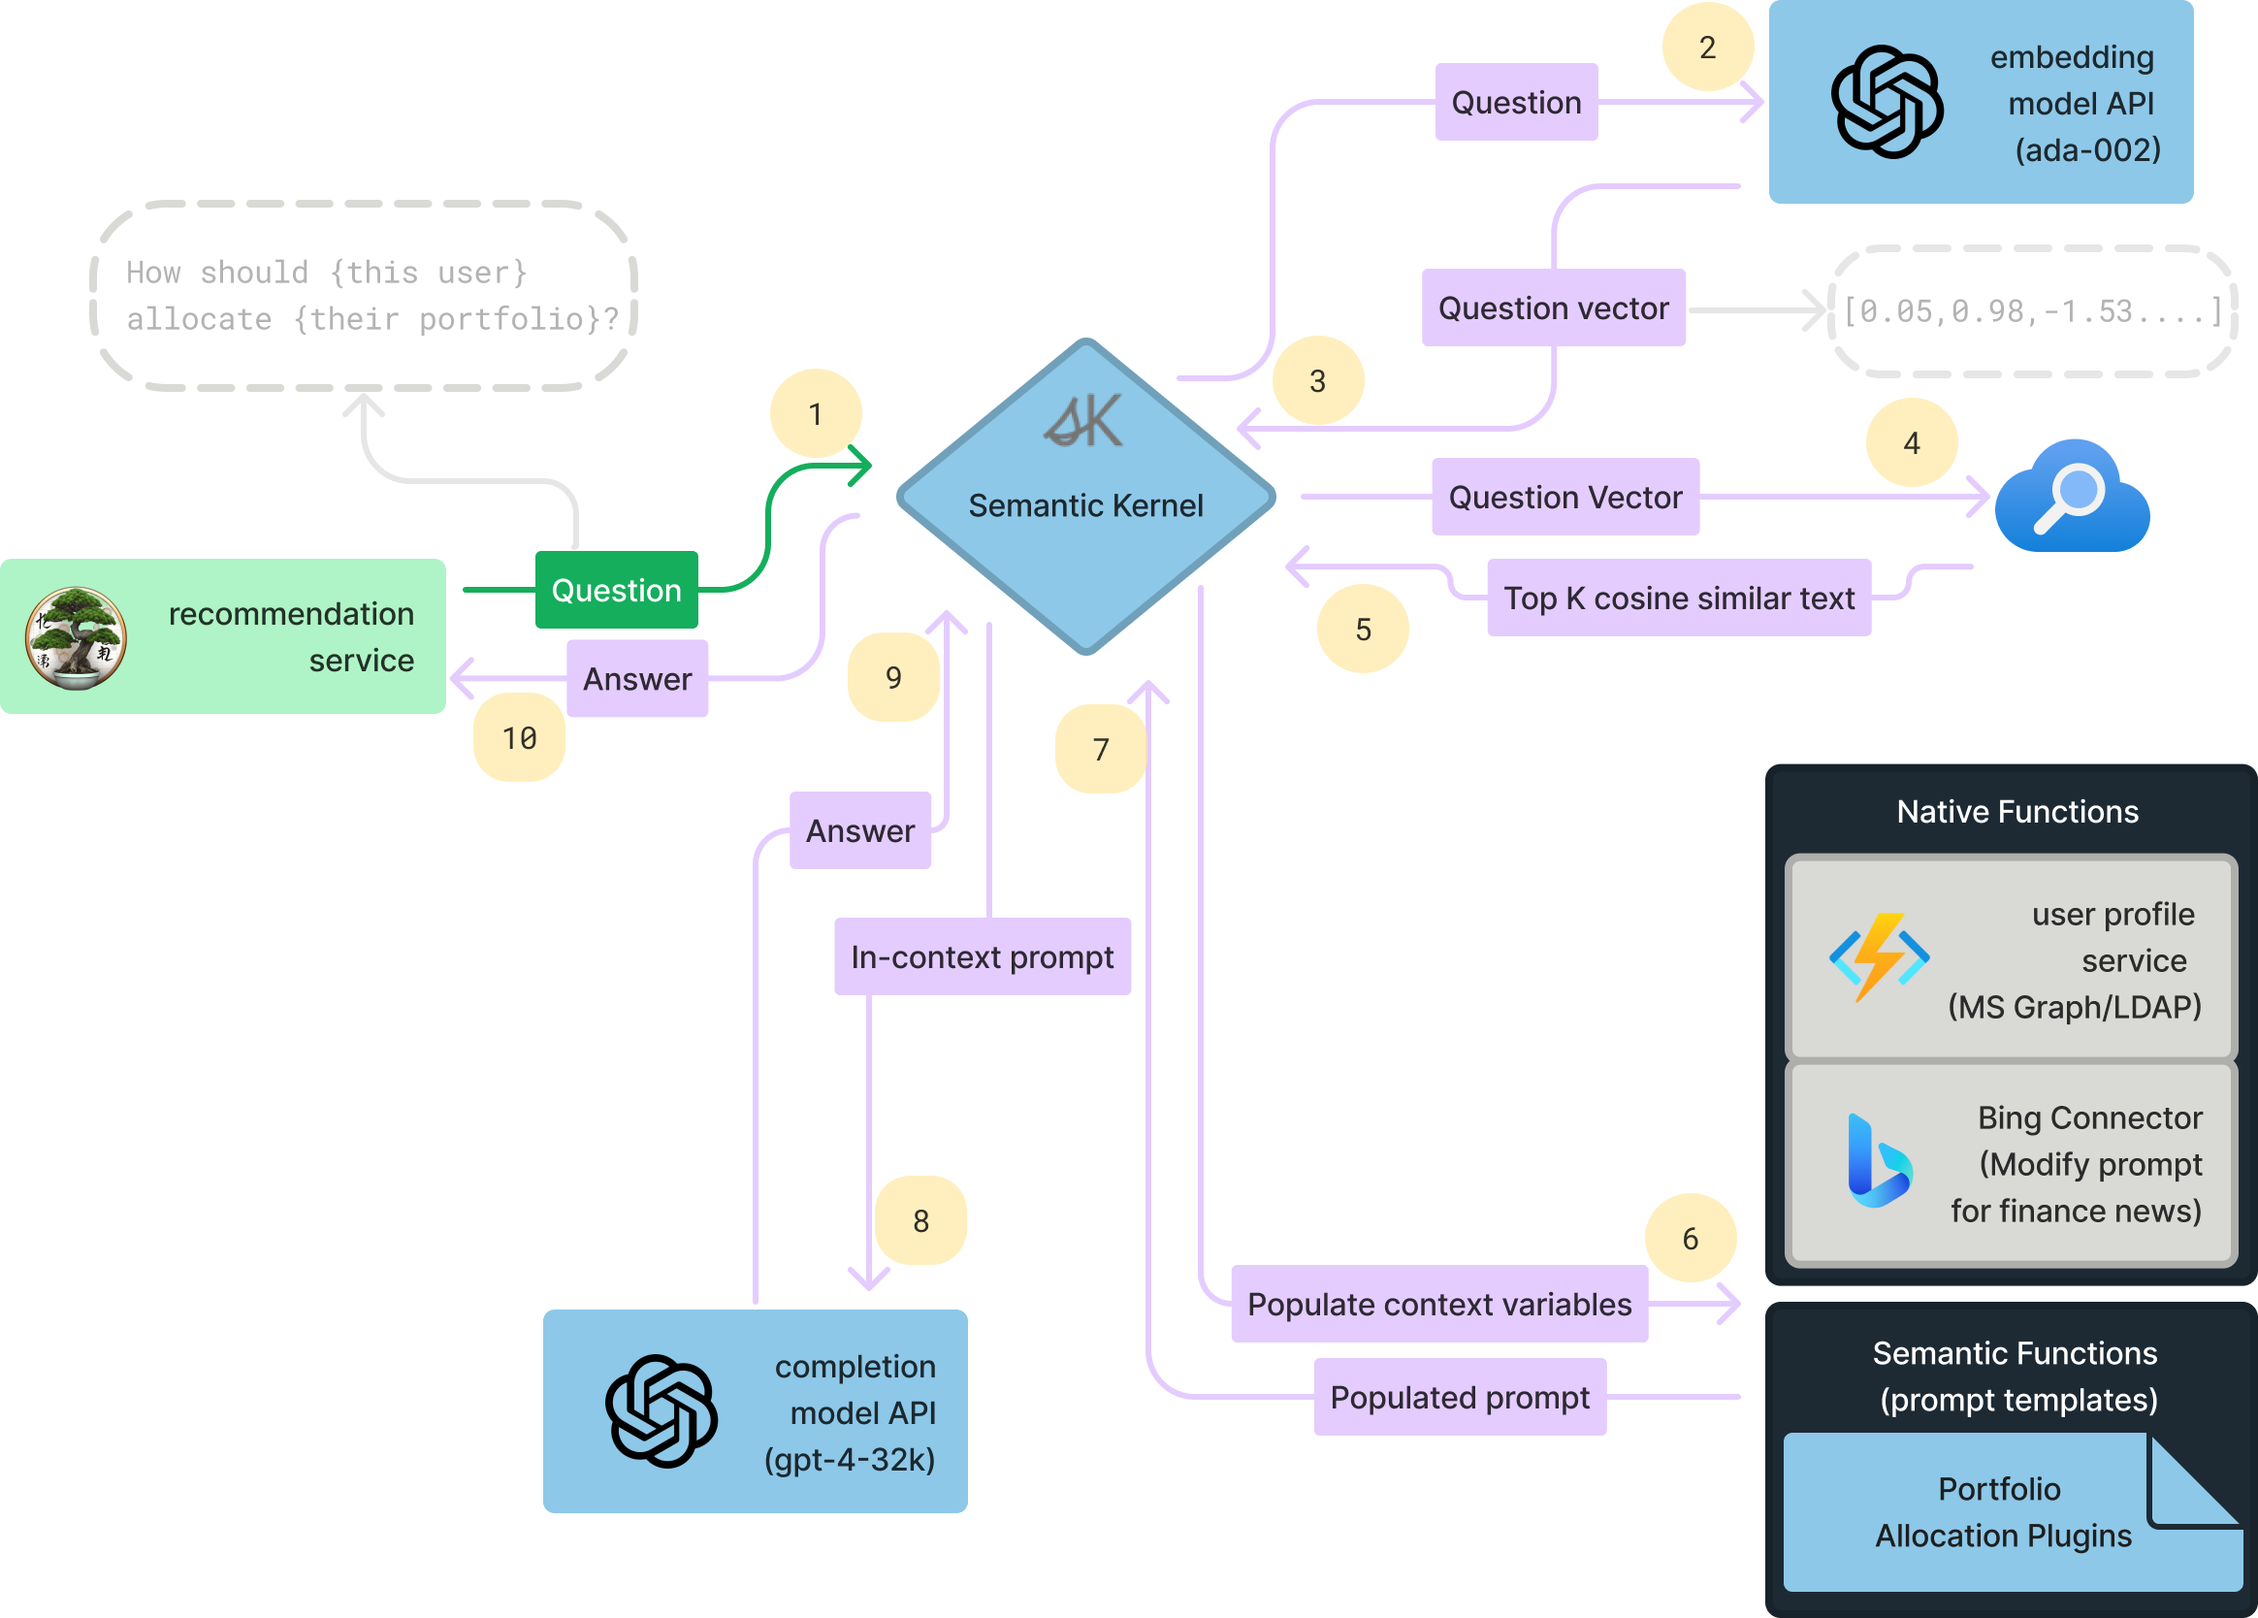
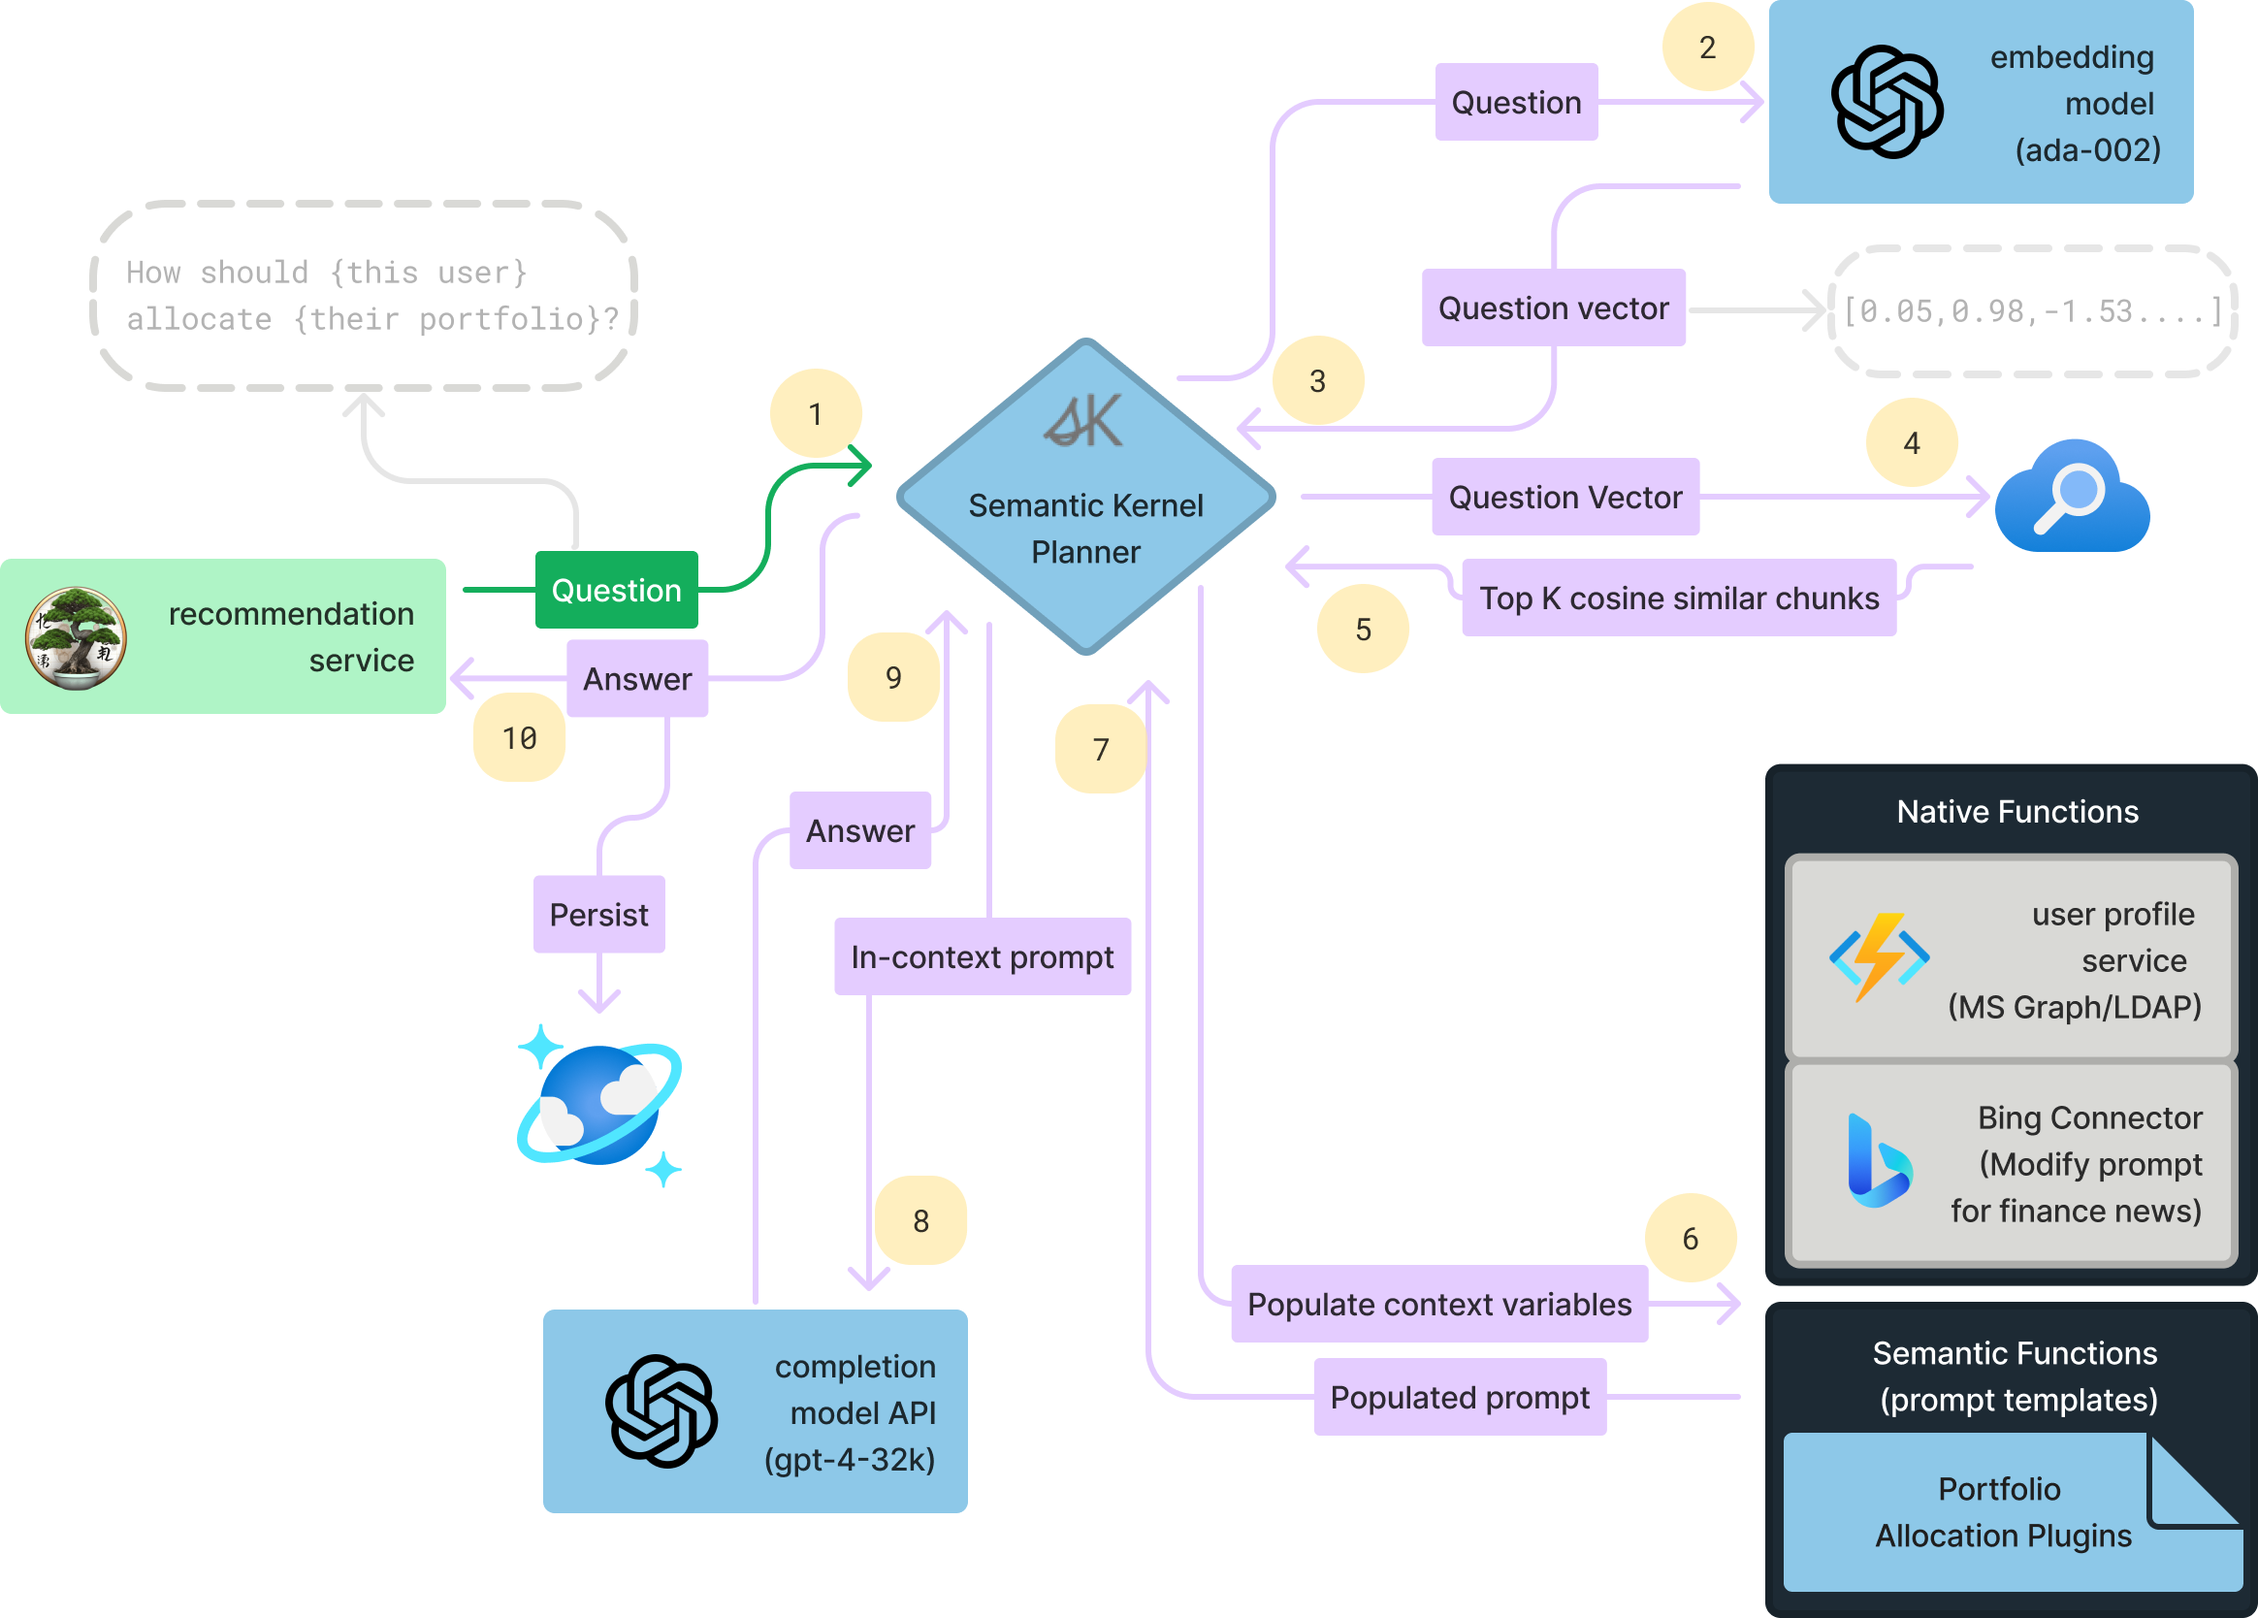
bump sk sdk to 0.24 and fix issues

diff --git a/services/recommendation-service/dotnet/controllers/InvestmentsController.cs b/services/recommendation-service/dotnet/controllers/InvestmentsController.cs
@@ -5,9 +5,9 @@ using GBB.Miyagi.RecommendationService.plugins;
 using GBB.Miyagi.RecommendationService.Utils;
 using Microsoft.AspNetCore.Mvc;
 using Microsoft.SemanticKernel;
-using Microsoft.SemanticKernel.Connectors.AI.OpenAI.Tokenizers;
 using Microsoft.SemanticKernel.Orchestration;
 using Microsoft.SemanticKernel.Planning;
+using Microsoft.SemanticKernel.Planning.Stepwise;
 using Microsoft.SemanticKernel.Skills.Core;
 using Microsoft.SemanticKernel.Skills.Web;
 
@@ -45,7 +45,7 @@ public class InvestmentsController : ControllerBase
         _kernel.ImportSkill(new UserProfilePlugin(), "UserProfilePlugin");
 
         // ========= Fetch memory from vector store using recall =========
-        _kernel.ImportSkill(new TextMemorySkill());
+        _kernel.ImportSkill(new TextMemorySkill(_kernel.Memory));
 
         // ========= Set context variables for Advisor skill =========
         var context = new ContextVariables();
@@ -60,11 +60,6 @@ public class InvestmentsController : ControllerBase
         context[TextMemorySkill.RelevanceParam] = "0.8";
         context[TextMemorySkill.LimitParam] = "3";
         context.Set("tickers", miyagiContext.Stocks?.Select(s => s.Symbol).ToList().ToString());
-
-        // ========= Log token count, which determines cost =========
-        var numTokens = GPT3Tokenizer.Encode(context.ToString()).Count;
-        log?.LogDebug("Number of Tokens: {N}", numTokens);
-        log?.LogDebug("Context: {S}", context.ToString());
         
         // ========= Import Bing web search skill to augment current info =========
         _kernel.ImportSkill(_webSearchEngineSkill, "WebSearch");
@@ -76,7 +71,7 @@ public class InvestmentsController : ControllerBase
         Stopwatch sw = new();
         Console.WriteLine("Question: " + ask);
 
-        var plannerConfig = new Microsoft.SemanticKernel.Planning.Stepwise.StepwisePlannerConfig();
+        var plannerConfig = new StepwisePlannerConfig();
         plannerConfig.ExcludedFunctions.Add("PortfolioAllocation");
         plannerConfig.MinIterationTimeMs = 1500;
         plannerConfig.MaxTokens = 3000;
@@ -120,7 +115,7 @@ public class InvestmentsController : ControllerBase
         var userProfilePlugin = _kernel.ImportSkill(new UserProfilePlugin(), "UserProfilePlugin");
 
         // ========= Fetch memory from vector store using recall =========
-        _kernel.ImportSkill(new TextMemorySkill());
+        _kernel.ImportSkill(new TextMemorySkill(_kernel.Memory));
 
         // ========= Set context variables for Advisor skill =========
         var context = new ContextVariables();
@@ -135,10 +130,7 @@ public class InvestmentsController : ControllerBase
         context[TextMemorySkill.RelevanceParam] = "0.8";
         context[TextMemorySkill.LimitParam] = "3";
         context.Set("tickers", miyagiContext.Stocks?.Select(s => s.Symbol).ToList().ToString());
-
-        // ========= Log token count, which determines cost =========
-        var numTokens = GPT3Tokenizer.Encode(context.ToString()).Count;
-        log?.LogDebug("Number of Tokens: {N}", numTokens);
+        
         log?.LogDebug("Context: {S}", context.ToString());
 
         const int maxRetries = 2;
@@ -163,8 +155,6 @@ public class InvestmentsController : ControllerBase
                     userProfilePlugin["GetAnnualHouseholdIncome"],
                     advisorPlugin["InvestmentAdvise"]);
                 log?.LogDebug("Result: {S}", result.Result);
-                numTokens = GPT3Tokenizer.Encode(result.Result).Count;
-                log?.LogDebug("Number of Tokens: {N}", numTokens);
                 var output = result.Result.Replace("\n", "");
 
                 var jsonDocument = JsonDocument.Parse(output);

diff --git a/services/recommendation-service/dotnet/Program.cs b/services/recommendation-service/dotnet/Program.cs
@@ -1,13 +1,12 @@
 using Azure.Storage.Blobs;
 using GBB.Miyagi.RecommendationService.config;
 using GBB.Miyagi.RecommendationService.Utils;
-using Microsoft.Extensions.Logging.Abstractions;
 using Microsoft.SemanticKernel;
 using Microsoft.SemanticKernel.Connectors.Memory.Qdrant;
 using Microsoft.SemanticKernel.Memory;
-using Microsoft.SemanticKernel.Reliability;
 using Microsoft.SemanticKernel.Skills.Web;
 using Microsoft.SemanticKernel.Skills.Web.Bing;
+using ConsoleLogger = GBB.Miyagi.RecommendationService.config.ConsoleLogger;
 
 var builder = WebApplication.CreateBuilder(args);
 
@@ -31,21 +30,17 @@ builder.Services.AddSingleton<IKernel>(provider =>
     var memoryStore = new VolatileMemoryStore();
 
     var kernel = new KernelBuilder()
-        .WithLogger(NullLogger.Instance)
+        .WithLoggerFactory(ConsoleLogger.LoggerFactory)
         .WithCompletionService(kernelSettings)
         .WithEmbeddingGenerationService(kernelSettings)
         // Use QdrantMemoryStore instead of VolatileMemoryStore
         .WithMemoryStorage(memoryStore)
-        .Configure(c => c.SetDefaultHttpRetryConfig(new HttpRetryConfig
-        {
-            MaxRetryCount = 2,
-            UseExponentialBackoff = true
-            //  MinRetryDelay = TimeSpan.FromSeconds(2),
-            //  MaxRetryDelay = TimeSpan.FromSeconds(8),
-            //  MaxTotalRetryTime = TimeSpan.FromSeconds(30),
-            //  RetryableStatusCodes = new[] { HttpStatusCode.TooManyRequests, HttpStatusCode.RequestTimeout },
-            //  RetryableExceptions = new[] { typeof(HttpRequestException) }
-        }))
+        .WithRetryBasic(new()
+            {
+                MaxRetryCount = 3,
+                UseExponentialBackoff = true,
+                MinRetryDelay = TimeSpan.FromSeconds(3)
+            })
         .Build();
 
     return kernel;
@@ -53,7 +48,7 @@ builder.Services.AddSingleton<IKernel>(provider =>
 
 builder.Services.AddSingleton<QdrantMemoryStore>(provider =>
 {
-    var memoryStore = new QdrantMemoryStore(Env.Var("QDRANT_ENDPOINT"), 1536, ConsoleLogger.Log);
+    var memoryStore = new QdrantMemoryStore(Env.Var("QDRANT_ENDPOINT"), 1536, ConsoleLogger.LoggerFactory);
     return memoryStore;
 });
 

diff --git a/services/recommendation-service/dotnet/plugins/UserProfilePlugin.cs b/services/recommendation-service/dotnet/plugins/UserProfilePlugin.cs
@@ -1,6 +1,8 @@
 // Copyright (c) Microsoft. All rights reserved.
 
 using System.ComponentModel;
+using GBB.Miyagi.RecommendationService.Utils;
+using Microsoft.Extensions.FileSystemGlobbing.Internal.PatternContexts;
 using Microsoft.SemanticKernel.Orchestration;
 using Microsoft.SemanticKernel.SkillDefinition;
 
@@ -41,9 +43,13 @@ public class UserProfilePlugin
         string userId,
         SKContext context)
     {
+        var log = ConsoleLogger.Log;
+        log?.BeginScope("UserProfilePlugin.GetUserAge");
+        
         // userId = context.Variables.ContainsKey(UserId) ? context[UserId] : DefaultUserId;
         userId = string.IsNullOrEmpty(userId) ? DefaultUserId : userId;
-        context.Log.LogDebug("Returning hard coded age for {0}", userId);
+        
+        log?.LogDebug("Returning hard coded age for {S}", userId);
 
         int age;
 
@@ -71,9 +77,12 @@ public class UserProfilePlugin
         string userId,
         SKContext context)
     {
+        var log = ConsoleLogger.Log;
+        log?.BeginScope("UserProfilePlugin.GetAnnualHouseholdIncome");
+        
         // userId = context.Variables.ContainsKey(UserId) ? context[UserId] : DefaultUserId;
         userId = string.IsNullOrEmpty(userId) ? DefaultUserId : userId;
-        context.Log.LogDebug("Returning userId * randomMultiplier for {0}", userId);
+        log?.LogDebug("Returning userId * randomMultiplier for {S}", userId);
 
         var random = new Random();
         var randomMultiplier = random.Next(1000, 8000);

diff --git a/services/recommendation-service/dotnet/controllers/AssetsController.cs b/services/recommendation-service/dotnet/controllers/AssetsController.cs
@@ -5,10 +5,9 @@ using GBB.Miyagi.RecommendationService.plugins;
 using GBB.Miyagi.RecommendationService.Utils;
 using Microsoft.AspNetCore.Mvc;
 using Microsoft.SemanticKernel;
-using Microsoft.SemanticKernel.Connectors.AI.OpenAI.Tokenizers;
 using Microsoft.SemanticKernel.Orchestration;
 using Microsoft.SemanticKernel.Planning;
-using Microsoft.SemanticKernel.TemplateEngine;
+using Microsoft.SemanticKernel.TemplateEngine.Prompt;
 
 namespace GBB.Miyagi.RecommendationService.Controllers;
 
@@ -75,8 +74,6 @@ public class AssetsController : ControllerBase
         var renderedPrompt = await promptRenderer.RenderAsync(
             ask,
             context);
-        var numTokens = GPT3Tokenizer.Encode(renderedPrompt).Count;
-        log?.LogDebug("Number of Tokens: {N}", numTokens);
         log?.LogDebug("Rendered Prompt: {S}", renderedPrompt);
         log?.LogDebug("Result: {S}", result.Result);
         if (result.Variables.TryGetValue("stepCount", out var stepCount)) log?.LogDebug("Steps Taken: {N}", stepCount);
@@ -123,8 +120,6 @@ public class AssetsController : ControllerBase
             advisorPlugin["PortfolioAllocation"]);
 
         // ========= Log token count, which determines cost =========
-        var numTokens = GPT3Tokenizer.Encode(result.ToString()).Count;
-        ConsoleLogger.Log.LogDebug("Number of Tokens: {N}", numTokens);
         ConsoleLogger.Log.LogDebug("Context: {S}", context.ToString());
         ConsoleLogger.Log.LogDebug("Result: {0}", result.Result);
 

diff --git a/services/recommendation-service/dotnet/config/ConsoleLogger.cs b/services/recommendation-service/dotnet/config/ConsoleLogger.cs
@@ -1,0 +1,37 @@
+// Copyright (c) Microsoft. All rights reserved.
+
+using System;
+using Microsoft.Extensions.Logging;
+
+namespace GBB.Miyagi.RecommendationService.config;
+
+/// <summary>
+/// Basic logger printing to console
+/// </summary>
+internal static class ConsoleLogger
+{
+    internal static ILogger Logger => LoggerFactory.CreateLogger<object>();
+
+    internal static ILoggerFactory LoggerFactory => s_loggerFactory.Value;
+
+    private static readonly Lazy<ILoggerFactory> s_loggerFactory = new(LogBuilder);
+
+    private static ILoggerFactory LogBuilder()
+    {
+        return Microsoft.Extensions.Logging.LoggerFactory.Create(builder =>
+        {
+            builder.SetMinimumLevel(LogLevel.Warning);
+
+            // builder.AddFilter("Microsoft", LogLevel.Trace);
+            // builder.AddFilter("Microsoft", LogLevel.Debug);
+            // builder.AddFilter("Microsoft", LogLevel.Information);
+            // builder.AddFilter("Microsoft", LogLevel.Warning);
+            // builder.AddFilter("Microsoft", LogLevel.Error);
+
+            builder.AddFilter("Microsoft", LogLevel.Warning);
+            builder.AddFilter("System", LogLevel.Warning);
+
+            builder.AddConsole();
+        });
+    }
+}

diff --git a/services/recommendation-service/dotnet/utils/RepoUtils.cs b/services/recommendation-service/dotnet/utils/RepoUtils.cs
@@ -1,6 +1,8 @@
 // Copyright (c) Microsoft. All rights reserved.
 
 using System.Reflection;
+using Microsoft.ML.Tokenizers;
+using Microsoft.SemanticKernel.Text;
 
 namespace GBB.Miyagi.RecommendationService.utils;
 
@@ -35,4 +37,15 @@ public static class RepoUtils
 
         return path;
     }
+    
+    /// <summary>
+    /// MicrosoftML token counter implementation.
+    /// </summary>
+    private static TextChunker.TokenCounter MicrosoftMLTokenCounter => (string input) =>
+    {
+        Tokenizer tokenizer = new(new Bpe());
+        var tokens = tokenizer.Encode(input).Tokens;
+
+        return tokens.Count;
+    };
 }
